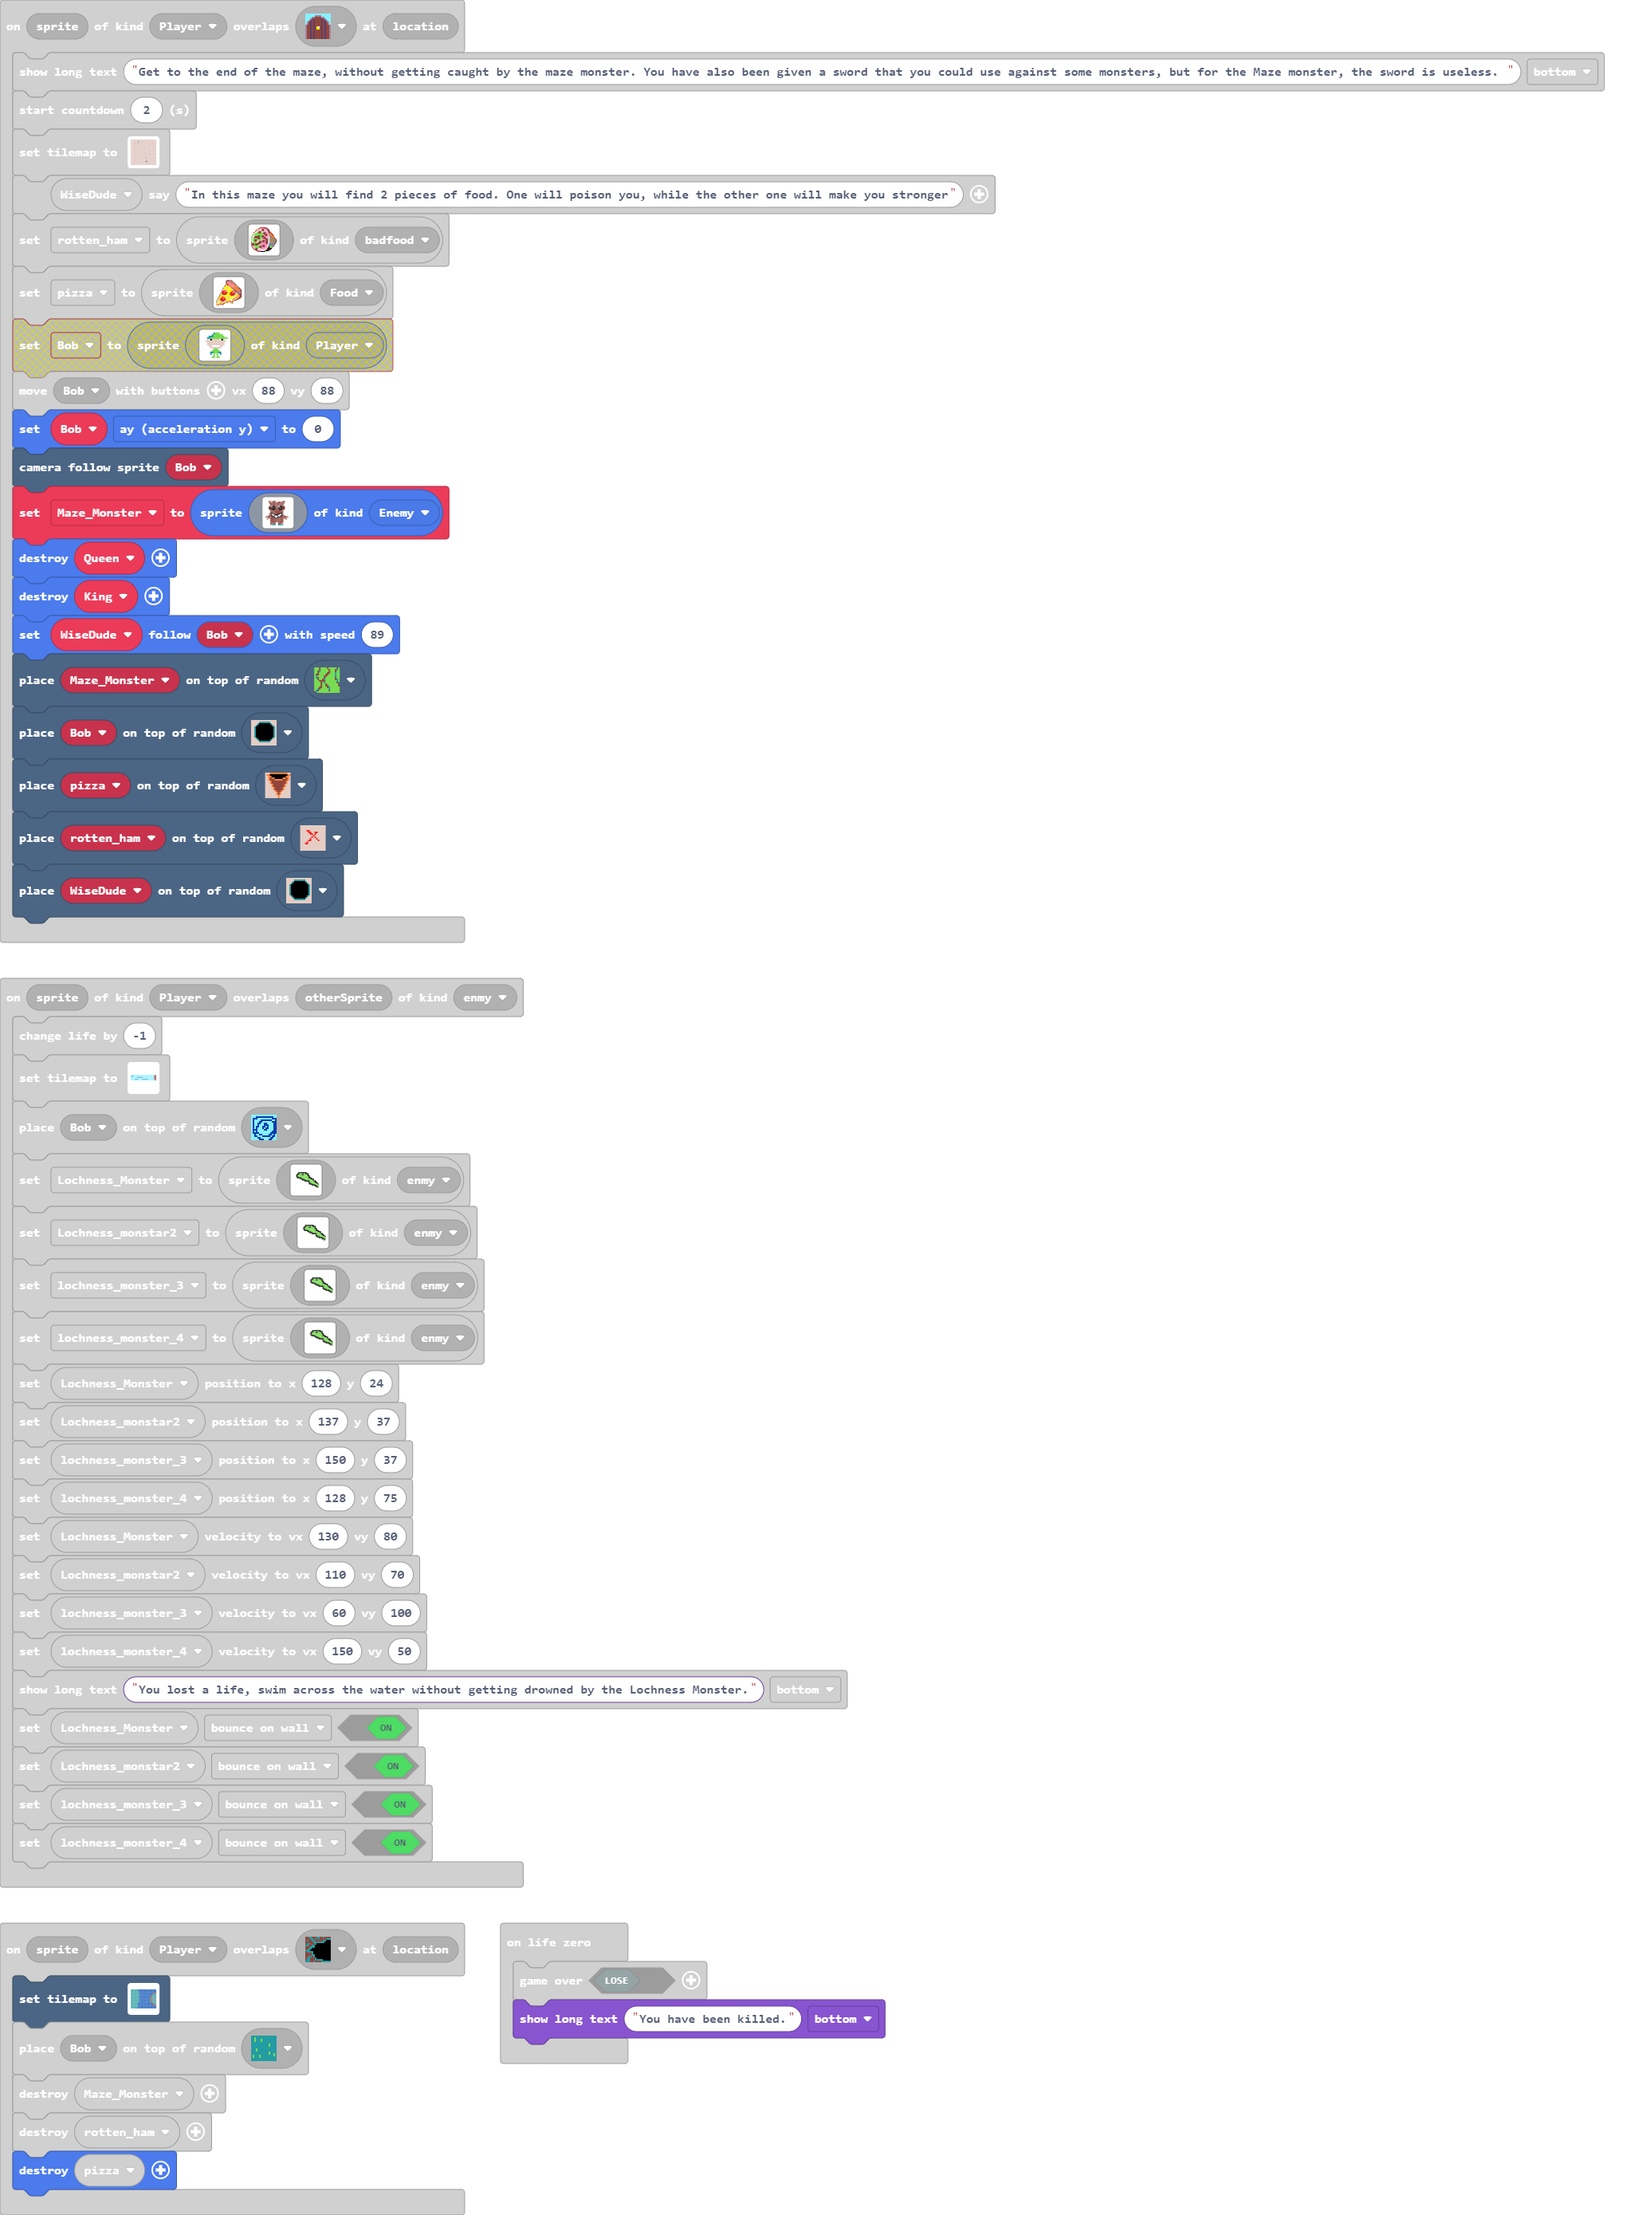
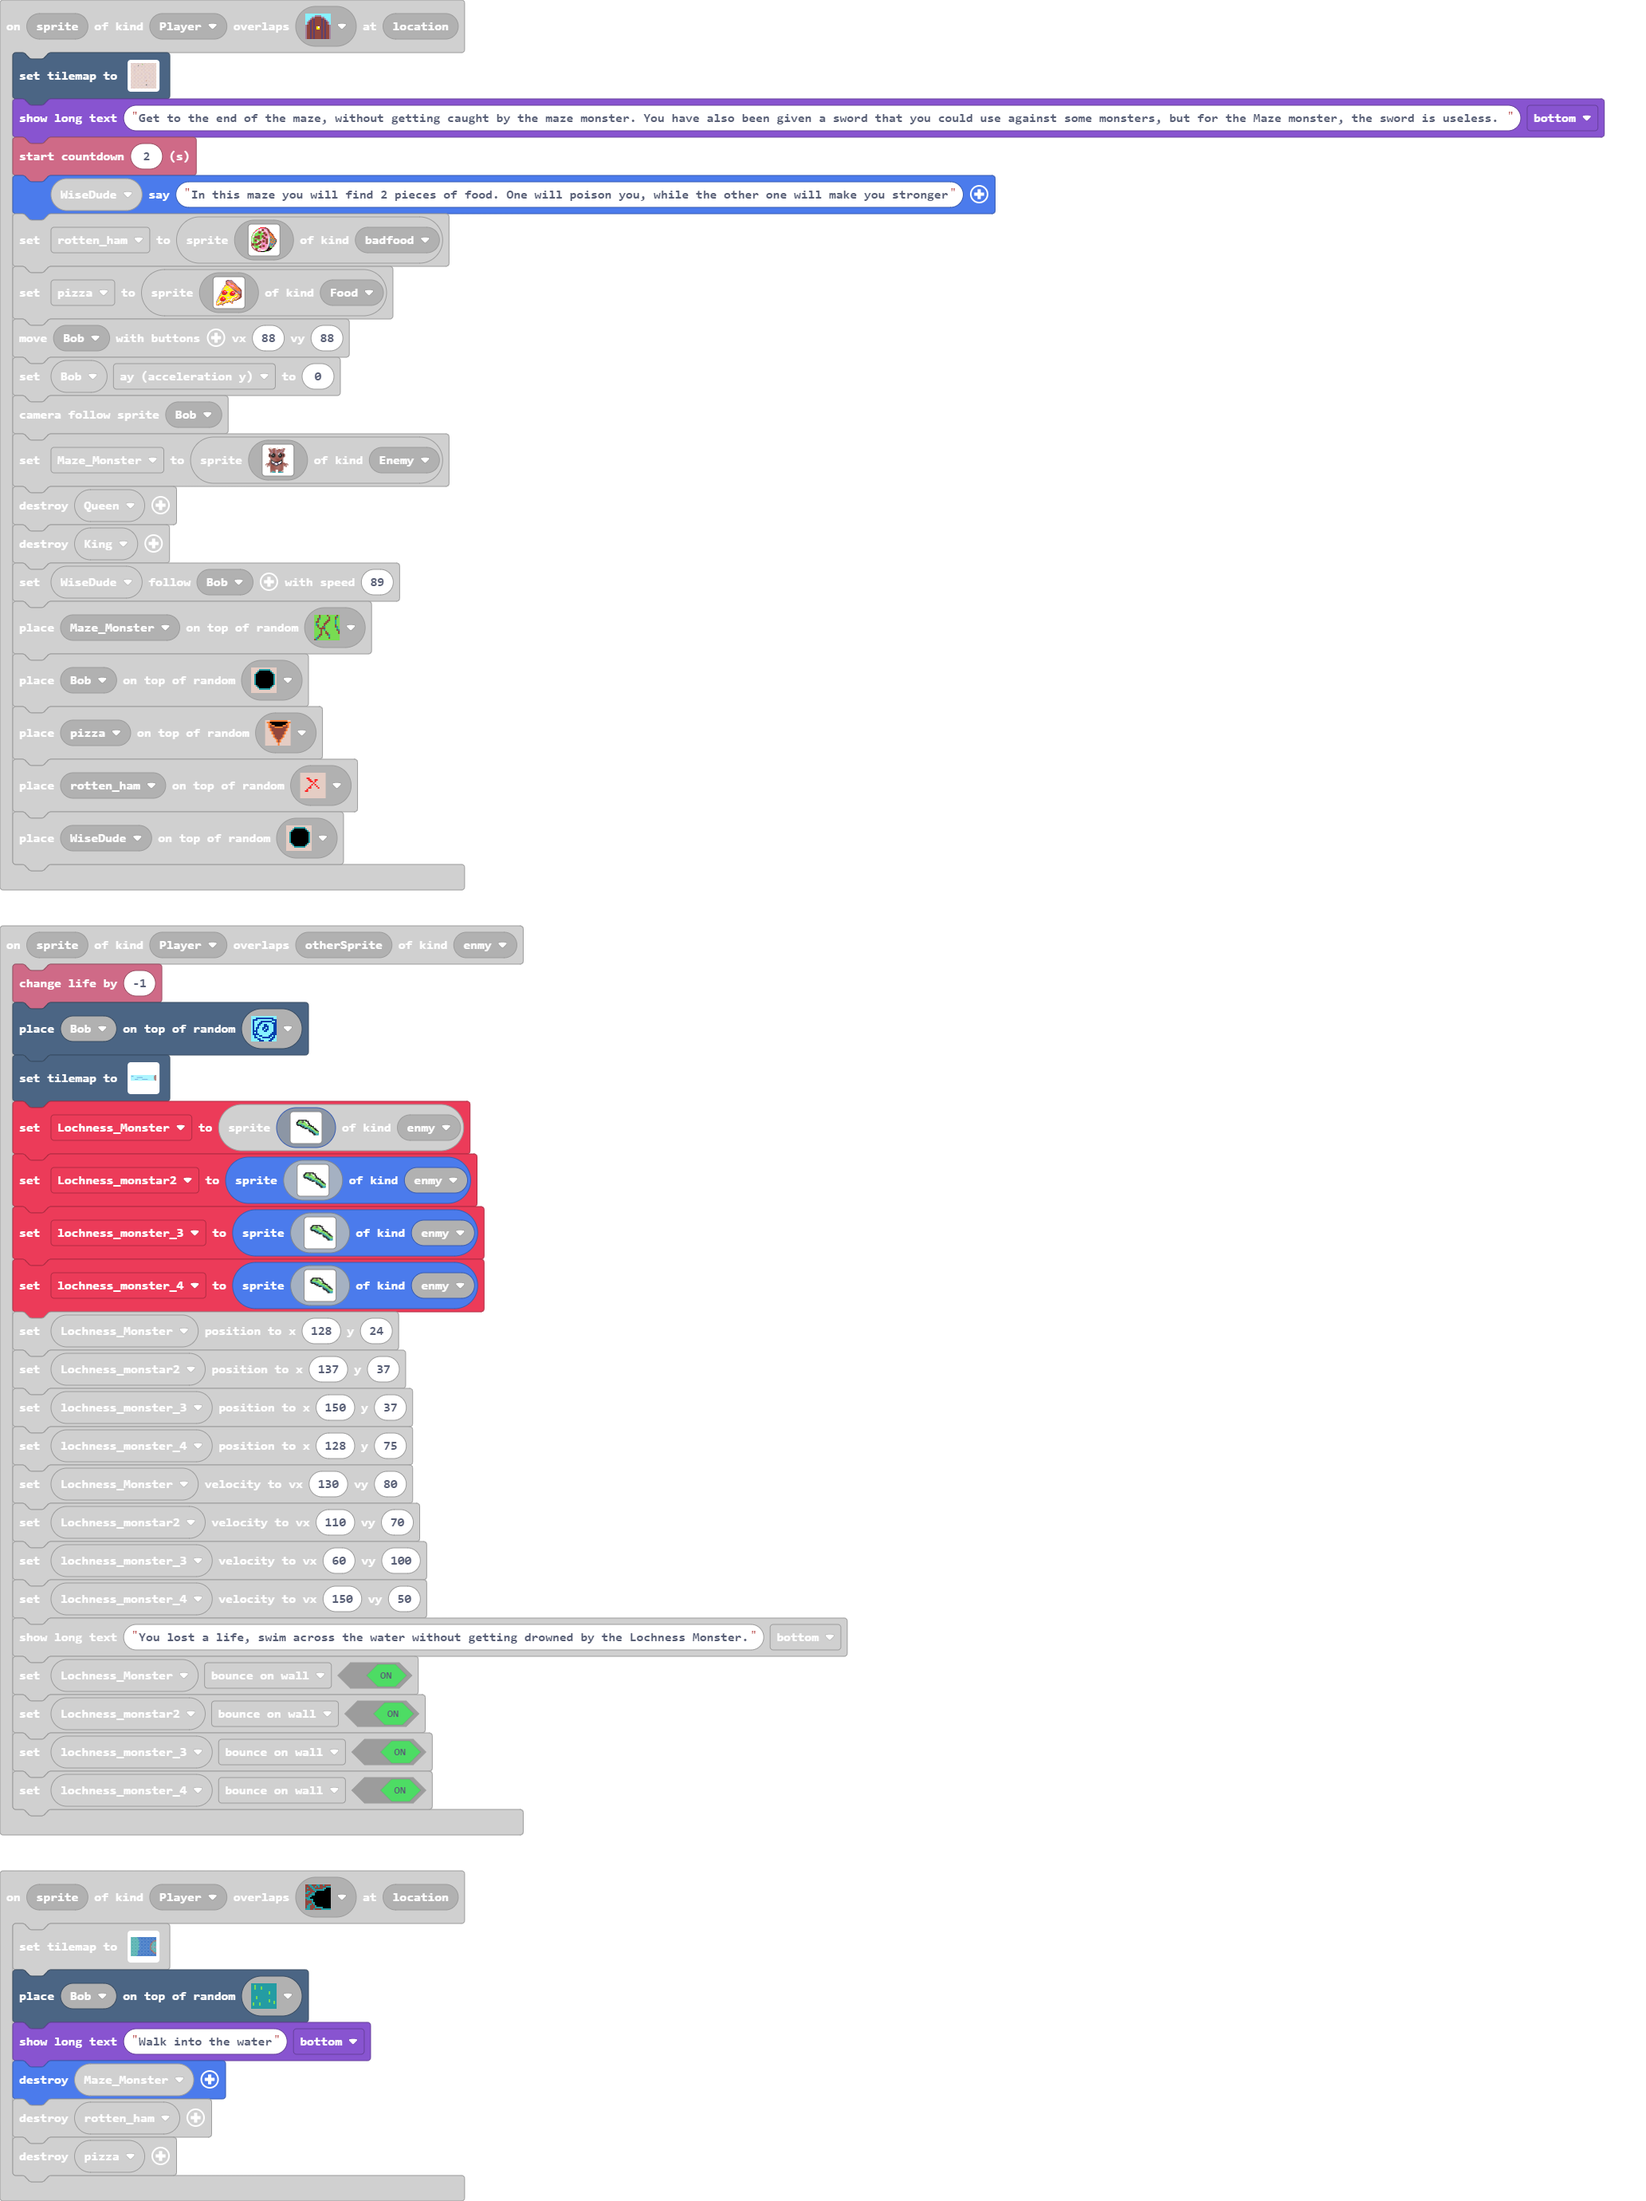
Update main.blocks, main.ts

Changed region(s): [[0.0, 0.0, 0.9918, 0.9971]]

diff --git a/main.ts b/main.ts
@@ -102,8 +102,6 @@ controller.A.onEvent(ControllerButtonEvent.Pressed, function () {
     }
 })
 scene.onOverlapTile(SpriteKind.Player, myTiles.tile8, function (sprite, location) {
-    game.showLongText("Get to the end of the maze, without getting caught by the maze monster. You have also been given a sword that you could use against some monsters, but for the Maze monster, the sword is useless. ", DialogLayout.Bottom)
-    info.startCountdown(2)
     tiles.setTilemap(tiles.createTilemap(hex`1900190001010101010101010101060606010606060606060606060606010606060606060606060607060106060606060606060606060106060606060605060606060601060606010101010101060601060601010101010101010101010606060606060606010606010606010106060106060606060106060606060606060106060606060101060601060606060601060601010101010101060606060601010606010606010101010606060606060606010606060606010106060606060606060106060606060606060106060606060101060606060606060601060606060606060601060606060601010606060606010606010101010101060606010606060606060606060606060106060606060606010106060106060606060606060606060601060606060606060101060601060606060606010101010101010606010101060601010606010606060606060106060606060606060101010606010106060106060606060601060606060606060601010106060101060601060606060606010606010101010606010106060601010606010606010606060106060106060606060106060606060606060106060106060601060601060606060601060306060606060601060601060606010606010606060606010606060606010101010606010606060106060106060101010101010106060106060606060106060606060601060606060606060601060601060606060601060606060606010606060606060602010606010606010606010606010606060101010101010101010101010106060106060106060106060606060606060606060601060606060601060601060401060606060606060606060606010606060606010606`, img`
         2222222222...2...........
         2............2...........
@@ -131,6 +129,8 @@ scene.onOverlapTile(SpriteKind.Player, myTiles.tile8, function (sprite, location
         2..2............2.....2..
         2..2............2.....2..
         `, [myTiles.transparency16,sprites.dungeon.floorLight0,myTiles.tile17,myTiles.tile43,myTiles.tile44,myTiles.tile18,sprites.castle.tilePath5,myTiles.tile16], TileScale.Sixteen))
+    game.showLongText("Get to the end of the maze, without getting caught by the maze monster. You have also been given a sword that you could use against some monsters, but for the Maze monster, the sword is useless. ", DialogLayout.Bottom)
+    info.startCountdown(2)
     WiseDude.say("In this maze you will find 2 pieces of food. One will poison you, while the other one will make you stronger")
     rotten_ham = sprites.create(img`
         ...........222222ee.............
@@ -267,6 +267,7 @@ scene.onOverlapTile(SpriteKind.Player, sprites.builtin.crowd4, function (sprite,
 })
 sprites.onOverlap(SpriteKind.Player, SpriteKind.enmy, function (sprite, otherSprite) {
     info.changeLifeBy(-1)
+    tiles.placeOnRandomTile(Bob, myTiles.tile69)
[1 lines of base64/hex data omitted]
         .............................................
         .............................................
@@ -279,78 +280,77 @@ sprites.onOverlap(SpriteKind.Player, SpriteKind.enmy, function (sprite, otherSpr
         .............................................
         .............................................
         `, [myTiles.transparency16,myTiles.tile32,myTiles.tile42,myTiles.tile4,myTiles.tile65,myTiles.tile66,myTiles.tile67,myTiles.tile69], TileScale.Sixteen))
-    tiles.placeOnRandomTile(Bob, myTiles.tile69)
     Lochness_Monster = sprites.create(img`
         .........................
         .....ffffffff............
-        ....ff777c77fff..........
-        ...ff777cf7777f..........
-        ...f7777777777ff.........
-        ...ff7777777777f.........
-        ....ffff7777777fff.......
-        .......fff7777777fff.....
-        .........fff7777777f.....
-        ...........fffff7777ff...
-        ...............f77777ff..
-        ...............ff77777ff.
-        ................fff77777f
-        ..................ffff777
-        .....................fff7
-        .......................f7
+        ....ff777c71fff..........
+        ...ff777cf7711f..........
+        ...f6777777771ff.........
+        ...ff6666777771f.........
+        ....ffff6667777fff.......
+        .......fff6677777fff.....
+        .........ff66667777f.....
+        ...........fff666777ff...
+        ...............f66777ff..
+        ...............ff66677ff.
+        ................fff66777f
+        ..................ff66777
+        ...................ff6666
+        ....................ff666
         `, SpriteKind.enmy)
     Lochness_monstar2 = sprites.create(img`
         .........................
         .....ffffffff............
-        ....ff777c77fff..........
-        ...ff777cf7777f..........
-        ...f7777777777ff.........
-        ...ff7777777777f.........
-        ....ffff7777777fff.......
-        .......fff7777777fff.....
-        .........fff7777777f.....
-        ...........fffff7777ff...
-        ...............f77777ff..
-        ...............ff77777ff.
-        ................fff77777f
-        ..................ffff777
-        .....................fff7
-        .......................f7
+        ....ff777c71fff..........
+        ...ff777cf7711f..........
+        ...f6777777771ff.........
+        ...ff6666777771f.........
+        ....ffff6667777fff.......
+        .......fff6677777fff.....
+        .........ff66667777f.....
+        ...........fff666777ff...
+        ...............f66777ff..
+        ...............ff66677ff.
+        ................fff66777f
+        ..................ff66777
+        ...................ff6666
+        ....................ff666
         `, SpriteKind.enmy)
     lochness_monster_3 = sprites.create(img`
         .........................
         .....ffffffff............
-        ....ff777c77fff..........
-        ...ff777cf7777f..........
-        ...f7777777777ff.........
-        ...ff7777777777f.........
-        ....ffff7777777fff.......
-        .......fff7777777fff.....
-        .........fff7777777f.....
-        ...........fffff7777ff...
-        ...............f77777ff..
-        ...............ff77777ff.
-        ................fff77777f
-        ..................ffff777
-        .....................fff7
-        .......................f7
+        ....ff777c71fff..........
+        ...ff777cf7711f..........
+        ...f6777777771ff.........
+        ...ff6666777771f.........
+        ....ffff6667777fff.......
+        .......fff6677777fff.....
+        .........ff66667777f.....
+        ...........fff666777ff...
+        ...............f66777ff..
+        ...............ff66677ff.
+        ................fff66777f
+        ..................ff66777
+        ...................ff6666
+        ....................ff666
         `, SpriteKind.enmy)
     lochness_monster_4 = sprites.create(img`
         .........................
         .....ffffffff............
-        ....ff777c77fff..........
-        ...ff777cf7777f..........
-        ...f7777777777ff.........
-        ...ff7777777777f.........
-        ....ffff7777777fff.......
-        .......fff7777777fff.....
-        .........fff7777777f.....
-        ...........fffff7777ff...
-        ...............f77777ff..
-        ...............ff77777ff.
-        ................fff77777f
-        ..................ffff777
-        .....................fff7
-        .......................f7
+        ....ff777c71fff..........
+        ...ff777cf7711f..........
+        ...f6777777771ff.........
+        ...ff6666777771f.........
+        ....ffff6667777fff.......
+        .......fff6677777fff.....
+        .........ff66667777f.....
+        ...........fff666777ff...
+        ...............f66777ff..
+        ...............ff66677ff.
+        ................fff66777f
+        ..................ff66777
+        ...................ff6666
+        ....................ff666
         `, SpriteKind.enmy)
     Lochness_Monster.setPosition(128, 24)
     Lochness_monstar2.setPosition(137, 37)
@@ -404,6 +404,7 @@ scene.onOverlapTile(SpriteKind.Player, myTiles.tile17, function (sprite, locatio
         .........2..............................
         `, [myTiles.transparency16,sprites.castle.tileDarkGrass3,myTiles.tile22,myTiles.tile23,myTiles.tile32,myTiles.tile33,myTiles.tile34,sprites.castle.tileDarkGrass1,myTiles.tile35,myTiles.tile36,myTiles.tile37,myTiles.tile38,myTiles.tile39,myTiles.tile40,myTiles.tile41,myTiles.tile42,myTiles.tile46,myTiles.tile64,myTiles.tile68], TileScale.Sixteen))
     tiles.placeOnRandomTile(Bob, myTiles.tile68)
+    game.showLongText("Walk into the water", DialogLayout.Bottom)
     Maze_Monster.destroy()
     rotten_ham.destroy()
     pizza.destroy()
